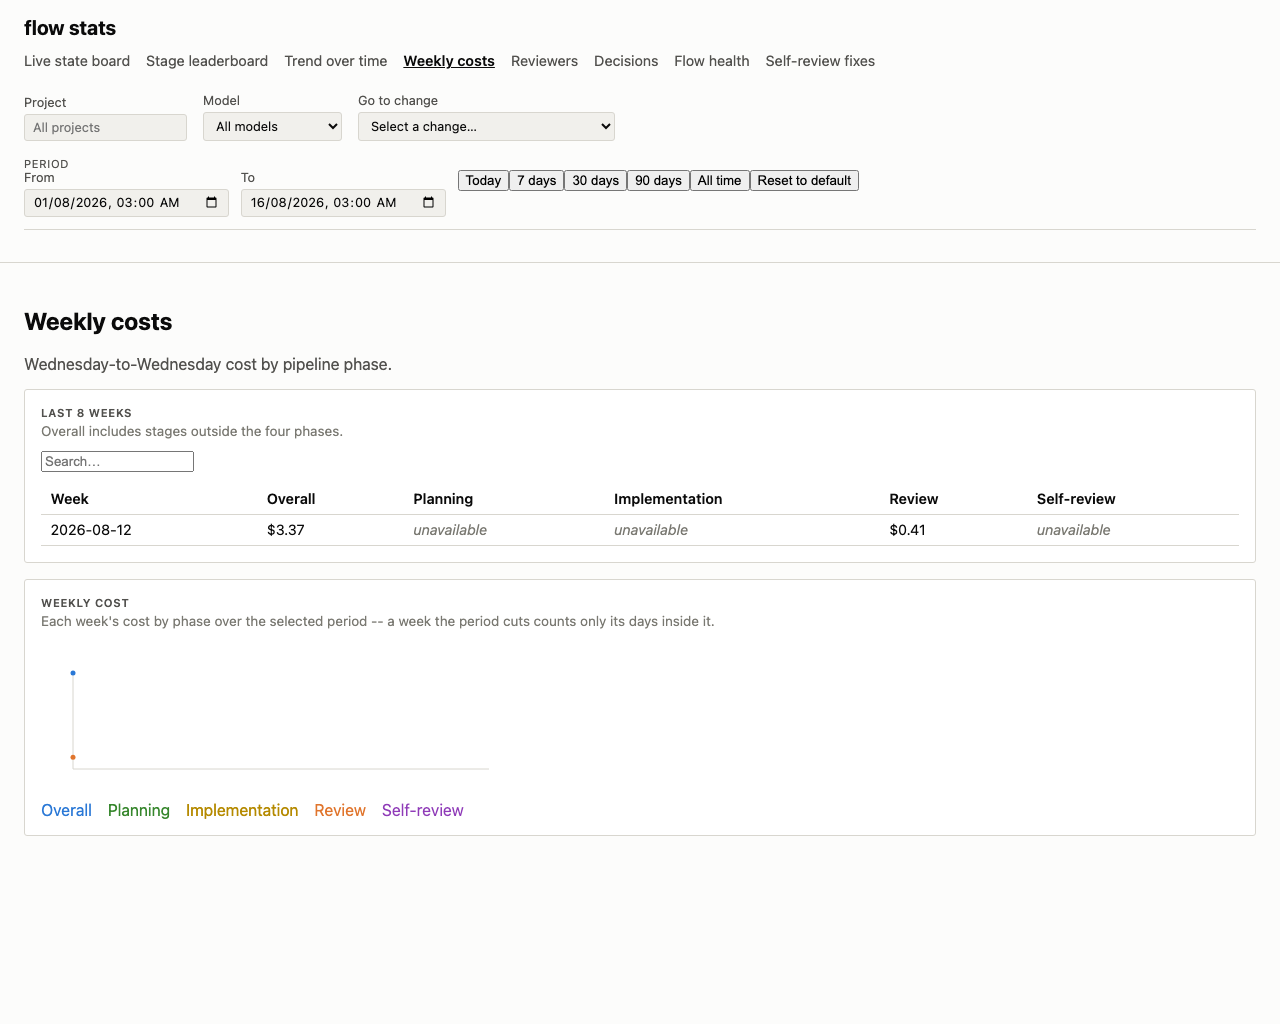
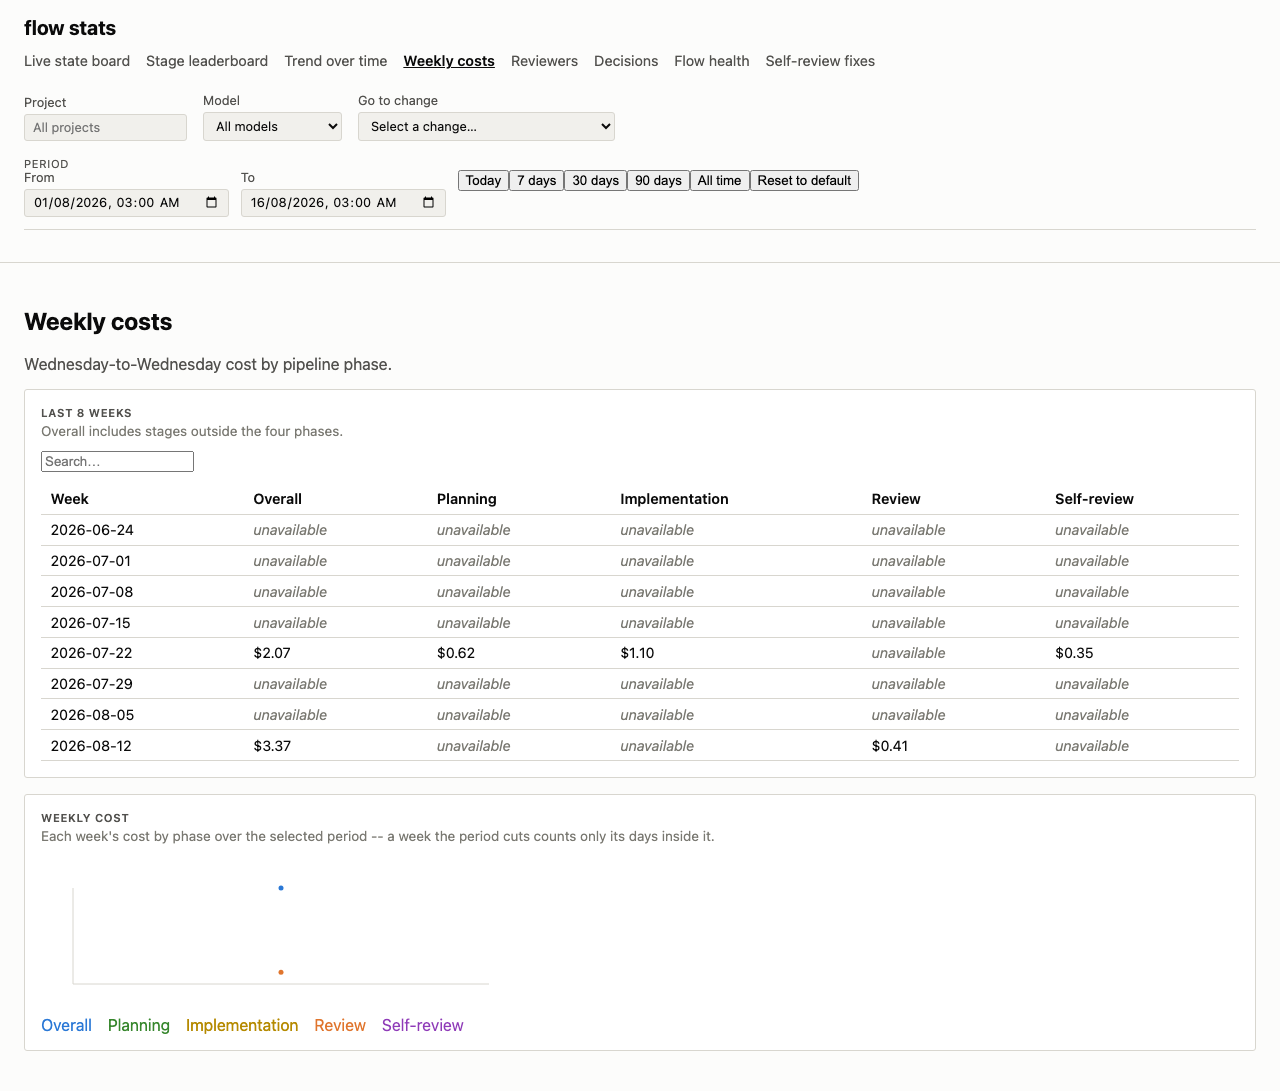
chore(spectre): plan kan-1037-stats-weekly-costs-dashboard — visual re-verify

diff --git a/spectre/changes/kan-1037-stats-weekly-costs-dashboard/visual-verification.md b/spectre/changes/kan-1037-stats-weekly-costs-dashboard/visual-verification.md
@@ -1,31 +1,34 @@
 # Visual verification — kan-1037-stats-weekly-costs-dashboard
 
-No `mockups` declared: no frame composed; bands, seams and matrix are n/a — no frame. Captures from `stats/web/tests/visual/weekly-costs.spec.ts` (clock pinned to 2026-08-16T12:00Z, viewport 1280x1024, UI-test fixture).
+Unscoped full run closing in-run fix 1. No `mockups` declared: no frame composed; bands, seams and matrix are n/a — no frame. Captures from `stats/web/tests/visual/weekly-costs.spec.ts` (clock pinned to 2026-08-16T12:00Z, viewport 1280x1024, UI-test fixture). Earlier rounds' findings (one-row table, lineless one-week chart, 2 of 5 lines seedable) were fixed in in-run fix 1 and are superseded by this entry.
 
 ## weekly-costs (dark) — `visual-verification/evidence/weekly-costs-darwin.png`
 
-Nav shows "Weekly costs" active between "Trend over time" and "Reviewers". Heading "Weekly costs", description "Wednesday-to-Wednesday cost by pipeline phase." Panel "LAST 8 WEEKS" with caption "Overall includes stages outside the four phases.", a search field and one row: Week 2026-08-12, Overall $3.37, Planning unavailable, Implementation unavailable, Review $0.41, Self-review unavailable. Panel "WEEKLY COST" draws two points (Overall at the top of the plot, Review near its floor), both on the plot's left edge, and a legend Overall/Planning/Implementation/Review/Self-review in series-1..5 (blue, green, yellow, orange, purple). Every text run is a display value; no raw float, NaN or null.
-
-Findings:
-- The 8-week table draws one row, not eight: the store returns only weeks with a costed run, so the six weeks of 2026-06-24..2026-08-05 with no run are omitted, where design.md's live check expects "8 Wednesday-keyed rows". This view is new, so the departure is this change's.
-- A one-week chart draws no line: with a single x value both points sit at x = PADDING on the y axis and the plot's width is empty. TimeSeriesPanel's x scale does the same for any single-day series (unchanged at the merge base); the weekly view reaches it whenever the period spans one week.
-- The fixture holds no planning, sdd-tdd or self-review stage, so three of five lines cannot be drawn by any capture over it.
+Nav shows "Weekly costs" active between "Trend over time" and "Reviewers". Heading "Weekly costs", description "Wednesday-to-Wednesday cost by pipeline phase." Panel "LAST 8 WEEKS", caption "Overall includes stages outside the four phases.", search field, header Week/Overall/Planning/Implementation/Review/Self-review and eight rows 2026-06-24, 07-01, 07-08, 07-15, 07-22, 07-29, 08-05, 08-12. 2026-07-22: $2.07 / $0.62 / $1.10 / unavailable / $0.35 (0.62+1.10+0.35 = 2.07, re-derived). 2026-08-12: $3.37 / unavailable / unavailable / $0.41 / unavailable. Every other cell reads `unavailable` in the muted italic. Panel "WEEKLY COST" draws the pinned period's one week as two points at x≈281, the centre of the 73..488 plot (fix 1's lone-point centring), Overall at the top, Review at the floor; no point crosses the plot or the panel. Legend Overall/Planning/Implementation/Review/Self-review in series-1..5 (blue, green, yellow, orange, purple). Every text run is a display value; no raw float, NaN or null. Page height 1091 > 1024 viewport: the full-page capture reaches the last element, the legend and the chart panel's bottom edge.
 
 ## weekly-costs (light) — `visual-verification/evidence/weekly-costs-light-darwin.png`
 
-Same layout on the light surface; legend in the light series tokens (#2a78d6, #37872d, #b58a00, #e0752d, #8f3bb8), all legible on the light background.
+Same layout and values on the light surface; legend in the light series tokens, all legible.
 
 ## weekly-costs (empty) — `visual-verification/evidence/weekly-costs-empty-darwin.png`
 
-Clock 2020-01-01, period 2020-01-01..02: both panels read "No data was recorded for this period."; no chart, no legend.
+Clock 2020-01-01, period 2020-01-01..02: both panels read "No data was recorded for this period."
+
+Finding — departure, this change's own (the view is new, nothing at the merge base): the "Last 8 weeks" table draws its empty state instead of eight `unavailable` weeks. The operator's answer recorded in tasks.md (2026-10-27) is "always 8 rows", and the capture spec's own header states the empty path shows "the table eight Unavailable weeks"; `WeeklyCosts.tsx` builds the eight rows with `everyWeek` only inside `Panel`'s children, and `Panel` renders its empty state first when the response carries no rows, so `everyWeek` never runs. The spec asserts only that the panel is visible, so the baseline carries the defect.
+
+Resolution (814a6333): not a defect. The empty path is a window with no recorded run, and `Panel` shows its not-recorded banner there in both panels by design — the not-recorded / unmeasured / empty distinction every dashboard keeps. "Always 8 rows" governs a recorded window, which `everyWeek` fills. The spec header claiming eight Unavailable weeks was wrong; it now says both panels show the banner, and the test asserts both banners.
 
 ## Derived
 
-Changing the period to EMPTY_QUERY at the pinned clock empties the chart while the table still shows $3.37 — the table ignores the picker, the chart follows it (spec test 4).
+Period changed to EMPTY_QUERY at the pinned clock: the chart empties while the table still shows $3.37 (spec test 4) — table ignores the picker, chart follows it.
 
-## Trend over time (shared TimeSeriesPanel)
+## Trend over time (shared TimeSeriesPanel) — committed baseline `stats/web/tests/visual/full-app-suite.spec.ts-snapshots/full-trend-darwin.png`
 
-`views.spec.ts`'s trend.png differed from its baseline only in the nav row (the new link); the single-series chart is pixel-identical, so the single-series path is unchanged. Every other stale baseline differed in the nav row alone and was re-captured.
+Single-series line between 2026-08-14 and 08-15, unchanged. Re-capture with `=all` differed from the committed baseline in 4 pixels at (612..614, 139..141), the first point's anti-aliasing, under the comparison threshold; the committed baseline was kept.
+
+## Full app suite zip
+
+The committed `full-app-suite.zip` did not match the committed PNGs (weekly-costs, trend, state-board, stage-leaderboard, run-detail entries stale); rebuilt from the committed PNGs.
 
 ## Motion
 

diff --git a/spectre/changes/kan-1037-stats-weekly-costs-dashboard/tasks.md b/spectre/changes/kan-1037-stats-weekly-costs-dashboard/tasks.md
@@ -169,10 +169,10 @@ Correction (2026-10-27): the test also asserts the table's own fetch starts on a
 **Decision:** multi-series-timeseriespanel
 **Decision:** absent-category-null
 
-- [x] 3. In-run fix 1 — flow.visual-verify: 8-week table omits empty weeks; one-week chart draws no line; seed shows 2 of 5 lines
+- [x] 3. In-run fix 1 — flow.visual-verify: 8-week table omits empty weeks; one-week chart draws no line; seed shows 2 of 5 lines <!-- measured: points in the weekly-costs capture at 57f0eeca -->
   - [x] **Step 1: Write the failing tests:** in `stats/web/src/views/views.test.tsx`, `weekly costs table always lists the last 8 weeks` — the table renders 8 Wednesday rows, a week with no fixture row reading Unavailable; in `stats/web/src/components/Panel.test.tsx`, `centres a single day on the x axis` — one point at x = 240.
   - [x] **Step 2: Implement:** `WeeklyCosts.tsx` builds the 8 Wednesday keys from `lastEightWeeks` and fills each week the response lacks with nulls; `TimeSeriesPanel.tsx` places a lone day at the plot's centre; `stats/cmd/uitest-seed/seed.go` gives `kan-201-refactor-thing` a `flow.brainstorm` run, a `flow.self-review` run, and keys its SDD run `flow.sdd-tdd`, so the capture shows all five lines.
-  - [x] **Step 3: Verify:** `cd stats/web && npx tsc -b && npx vitest run src/views/views.test.tsx src/components/Panel.test.tsx`; `cd stats && go test ./cmd/uitest-seed`; then re-baseline the visual suite.
+  - [x] **Step 3: Verify:** run the task's **Tests:** selector, then re-baseline the visual suite.
 
 Operator's answers, 2026-10-27: always 8 rows; centre a single point; extend the seed.
 

diff --git a/spectre/changes/kan-1037-stats-weekly-costs-dashboard/narrative.md b/spectre/changes/kan-1037-stats-weekly-costs-dashboard/narrative.md
@@ -1,0 +1,9 @@
+# kan-1037-stats-weekly-costs-dashboard — session narrative
+
+## 2026-10-27 — creating run
+
+- Mid-run the operator stopped picking "(Recommended)" options one by one after the asks cost about 380k uncached tokens; that became pipeline-fix loop 34, which states the non-stop run shape past the plan gate and that a question carrying a recommended option is never asked there. Every later ask in this run was auto-taken.
+- Operator answers taken during visual verification: the weekly table always lists 8 rows, a single chart point is centred, and the UI-test seed is extended. These became in-run fix task 3.
+- Task 3's first seed extension put the planning, implementation and self-review stages into the pinned query's week. That changed the pinned captures' look and left weekly-costs.spec.ts asserting the old two-point chart, which panel round 3 caught. Abandoned: re-counting the pinned spec to five points, because every other pinned capture would shift too. Kept: a separate change in the week of 2026-07-22, outside the pinned window, asserted by its own table row.
+- The verify test harness hung once on TestProveReproducerSignals. Its SIGTERM case opens the release FIFO O_WRONLY after the reader has gone. The re-run passed, and the root cause is left for a follow-up pipeline-fix.
+- The re-verify's tsc failed because stats/web/node_modules had been emptied during the panel's throwaway-copy mutation work. `npm ci` restored it, and lint went green.
